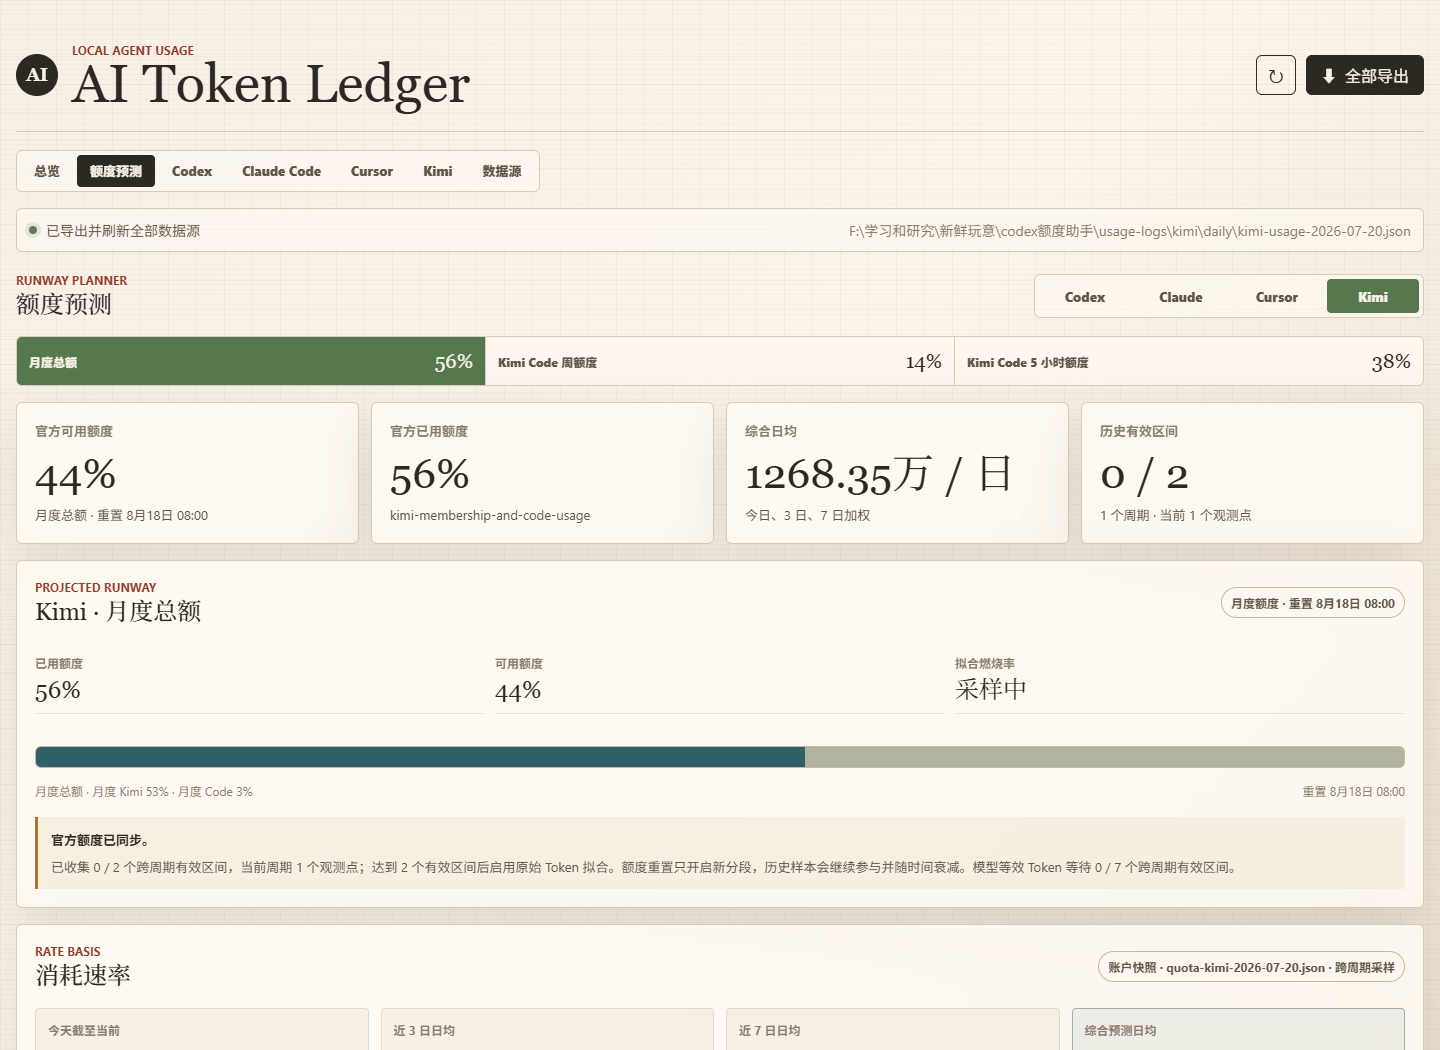
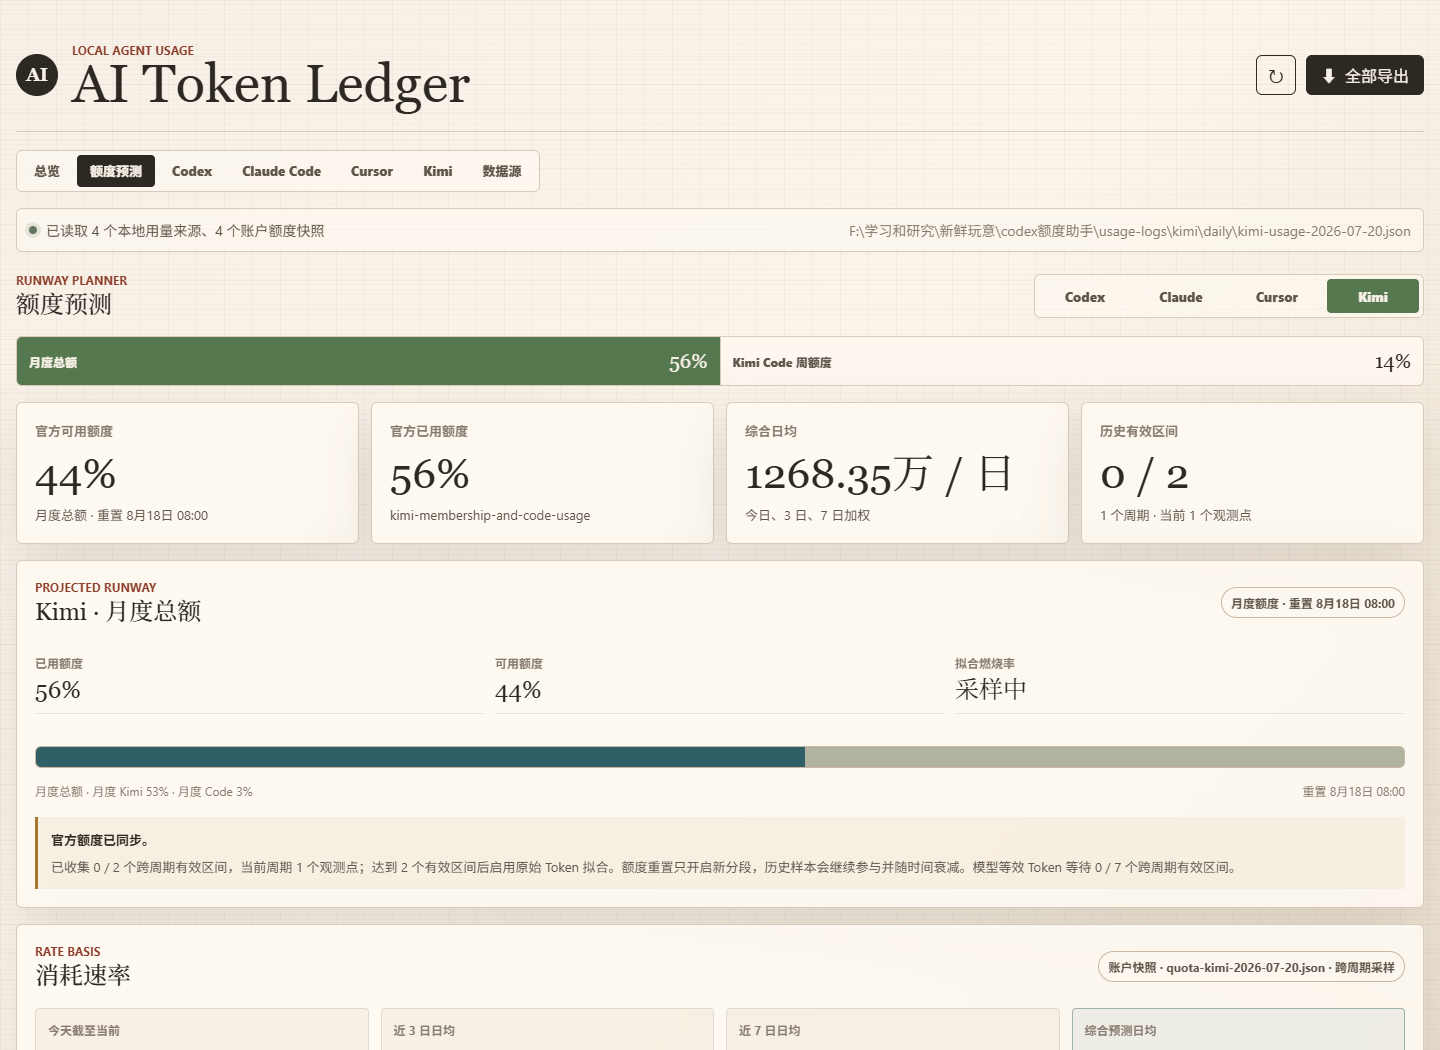
Focus quota forecasts on weekly windows

diff --git a/providers/registry.js b/providers/registry.js
@@ -41,6 +41,7 @@ const PROVIDERS = Object.freeze([
     quota: {
       adapter: "codex-app-server",
       discoverWindows: true,
+      minimumForecastWindowMins: 10080,
       windows: [
         { name: "primary", label: "主要额度" },
         { name: "secondary", label: "次要额度" },
@@ -68,6 +69,7 @@ const PROVIDERS = Object.freeze([
     quota: {
       adapter: "claude-oauth",
       discoverWindows: true,
+      minimumForecastWindowMins: 10080,
       windows: [
         { name: "five_hour", label: "5 小时额度", windowDurationMins: 300, windowKind: "rolling" },
         { name: "seven_day", label: "周总额度", windowDurationMins: 10080, windowKind: "weekly" },
@@ -97,6 +99,7 @@ const PROVIDERS = Object.freeze([
     quota: {
       adapter: "cursor-account",
       discoverWindows: true,
+      minimumForecastWindowMins: 10080,
       windows: [
         { name: "included_pro_total", label: "Included in Pro", windowKind: "billing" },
         { name: "auto_composer", label: "Auto + Composer", windowKind: "breakdown", selectable: false },
@@ -128,6 +131,7 @@ const PROVIDERS = Object.freeze([
     quota: {
       adapter: "kimi-managed-usage",
       discoverWindows: true,
+      minimumForecastWindowMins: 10080,
       windows: [
         { name: "monthly_membership", label: "月度总额", windowDurationMins: 43200, windowKind: "monthly" },
         { name: "weekly_limit", label: "Kimi Code 周额度", windowDurationMins: 10080, windowKind: "weekly" },

diff --git a/tests/provider-registry.test.js b/tests/provider-registry.test.js
@@ -125,6 +125,7 @@ test("Claude quota template keeps configured and newly discovered reset windows"
   const { applyQuotaWindowTemplate, normalizeClaudeUsagePayload } = await import("../scripts/sync-account-quotas.mjs");
   const quota = {
     discoverWindows: true,
+    minimumForecastWindowMins: 10080,
     windows: [
       { name: "five_hour", label: "5 小时额度", windowDurationMins: 300 },
       { name: "seven_day_fable", label: "Fable 周额度", windowDurationMins: 10080, modelPatterns: ["fable"] },
@@ -139,7 +140,9 @@ test("Claude quota template keeps configured and newly discovered reset windows"
   const snapshot = applyQuotaWindowTemplate({ quota }, { windows });
 
   assert.deepEqual(snapshot.windows.map((window) => window.name), ["five_hour", "seven_day_fable", "future_model_window"]);
+  assert.equal(snapshot.windows[0].selectable, false);
   assert.equal(snapshot.windows[1].label, "Fable 周额度");
+  assert.notEqual(snapshot.windows[1].selectable, false);
   assert.deepEqual(snapshot.windows[1].modelPatterns, ["fable"]);
   assert.equal(snapshot.windows[2].usedPercent, 12);
   assert.equal(JSON.stringify(snapshot).includes("modelPatterns"), false);
